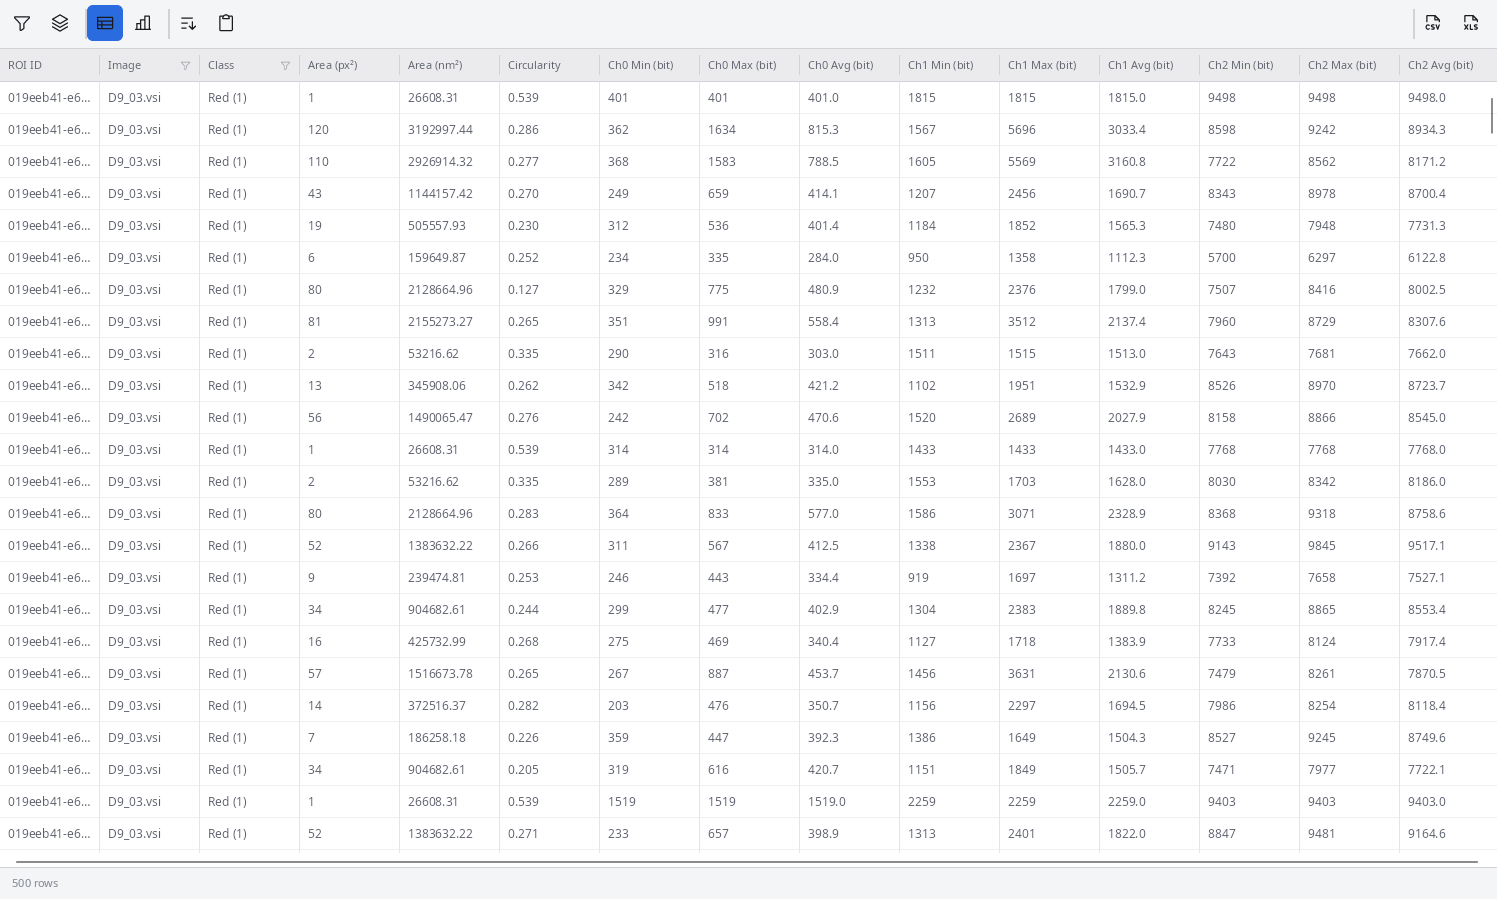
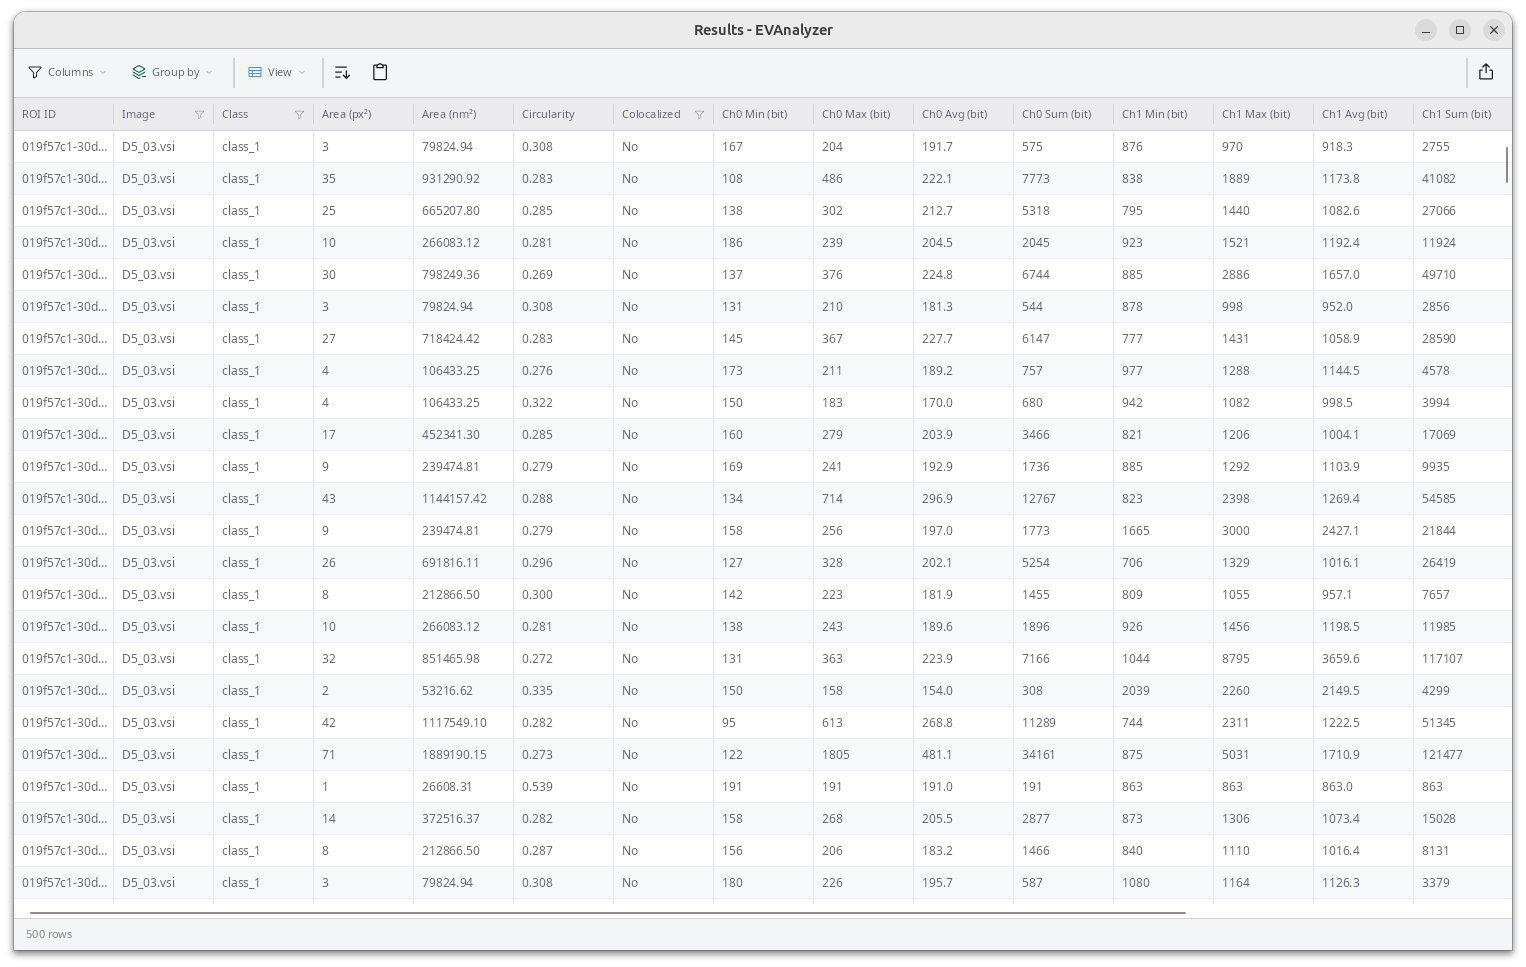
chore: Further writing

diff --git a/src/content/docs/getting-started/first-steps.md b/src/content/docs/getting-started/first-steps.md
@@ -27,14 +27,16 @@ Click an image to preview it and inspect its metadata (channels, pixel sizes, Z/
 ### Classification tab
 
 Before building pipelines, define the **object classes** you want to detect - for example, `CY7`, `CY5`, `DAPI`.
+The classification tab is the second tab in the right side panel.
 
 - Click the **+** button to add a class.
 - Assign a name and a display color.
 
 :::tip[Auto classes]
 Use the **Auto** button to extract the classes automatically from the image channels.
-An image must be selected before the automatic function can be used.
 :::
+
+![Classification](../../../assets/screenshots/screenshot-classification.png)
 
 ### Pipelines tab
 
@@ -42,9 +44,9 @@ Pipelines extract objects from image channels.
 Click **New pipeline** which opens the pipeline edit dialog.
 Enter a pipeline name and select the image source the pipeline should start.
 
+- **Channel** - the default value is to start with a specific image channel the pipeline should work on.
 - **Scratchpad** - starts with an empty image, this option is used if the pipeline should work on already extracted objects
 - **Memory slot** - images can be stored to a temporary memory using the `ImageCache` command, start with an image from this cache
-- **Channel** - the default value is to start with a specific image channel the pipeline should work on.
 
 ![Pipeline edit](../../../assets/getting-started/screenshot-pipeline-edit.png)
 
@@ -63,12 +65,20 @@ A minimal spot-detection pipeline looks like:
 
 Before the preview can be shown or the analysis can be started, the project must be saved using the **Save** button in the toolbar.
 
-To update the live preview in the middle press the **Debug** button at bottom.
+To update the live preview in the middle press the **Preview** button at bottom.
+Using the **Auto** button enables auto preview, which automatically refreshes the preview if any parameter has been changed.
 
 ## 3. Run the Analysis
 
-Click the **Run all** button or the **Play** in the toolbar.
-A progress dialog appears.
+Click the **Run** button in the pipelines panel or the **Run** in the toolbar.
+
+A run dialog appears which allows to set a custom job name under which the result is stored.
+If no job name is specified, EVAnalyzer will generate a random name for this job.
+
+![Pipeline edit](../../../assets/screenshots/screenshot-start-analysis.png)
+
+Once **Run** is pressed a progress dialog appears.
+
 When complete, switch to the **Results** tab to open the results of the analysis.
 
 Results are saved to:
@@ -81,13 +91,12 @@ Results are saved to:
 
 Switch to the **Results** tab. EVAnalyzer scans the `evanalyzer/` subfolder inside your image directory and lists every `results.evadb` file it finds. Click any entry to open it.
 
-![Results view](../../../assets/getting-started/screenshot-results.png)
+![Results view](../../../assets/screenshots/screenshot-results.png)
 
 See the [Results](/guide/results/) guide for full details.
 
 ## Next Steps
 
-- Read [Project Setup](/guide/project-setup/) for all project options including Z-stack and T-stack handling.
 - Read [Pipelines](/guide/pipelines/) for a detailed explanation of every pipeline option.
 - Browse the [Commands](/commands/overview/) reference to learn what each pipeline step does.
 - Follow a [Tutorial](/tutorials/spot-count/) for a complete worked example.

diff --git a/src/content/docs/getting-started/installation.md b/src/content/docs/getting-started/installation.md
@@ -3,7 +3,8 @@ title: Installation
 description: How to download and install EVAnalyzer on Linux, Windows, or macOS.
 ---
 
-EVAnalyzer is distributed as a pre-built binary for Linux, Windows, and macOS. No package manager or build toolchain is required to run the application.
+EVAnalyzer is distributed as a pre-built binary for Linux, Windows, and macOS.
+No package manager or build toolchain is required to run the application.
 
 Before downloading, check the [System Requirements](/getting-started/system-requirements/) page - in particular if you plan to use a CUDA build for GPU-accelerated AI segmentation.
 

diff --git a/src/content/docs/guide/images.md b/src/content/docs/guide/images.md
@@ -3,7 +3,7 @@ title: Images
 description: Browse, preview, and configure images in the Images tab.
 ---
 
-The **Images** tab lists every image file found in the configured image directory. It appears after at least one image directory has been set in the [Project tab](/guide/project-setup/).
+The **Images** tab lists every image file found in the configured image directory. It appears after at least one image directory has been set.
 
 ## Image List
 

diff --git a/src/content/docs/fundamentals/image-formats.md b/src/content/docs/fundamentals/image-formats.md
@@ -43,7 +43,7 @@ Each unique combination of (C, Z, T) is one **image plane**.
 EVAnalyzer can access and process any plane individually.
 
 Pipeline input is specified by channel index (0-based).
-Z and T handling is configured in the [Image control tab](/guide/project-setup/#z-stack) on the right hand side.
+Z and T handling is configured in the [Image control tab]() on the right hand side.
 
 ## OME-XML Metadata {#ome-xml}
 
